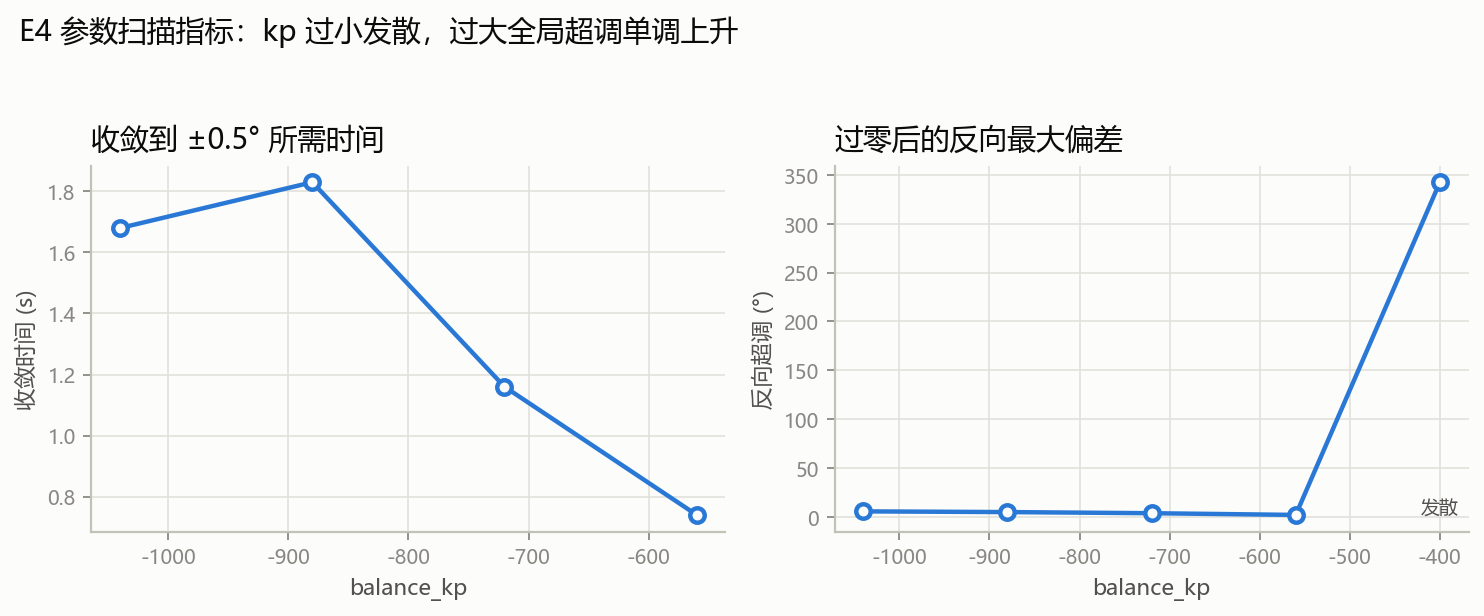
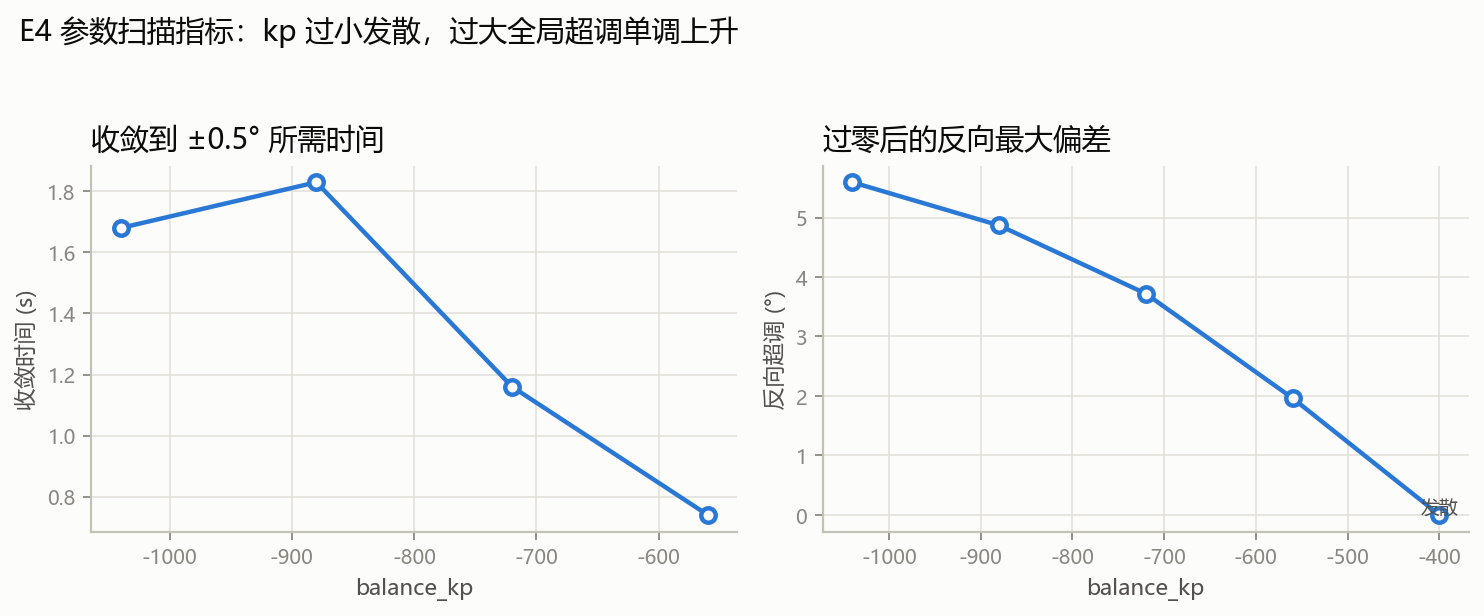
docs: 重出 E4 图（-400 工况现被倾角保护切断）+ 面试QA 补 E6/E7
- 引入锁存式倾角保护后，E4 中 kp=-400 发散到倒地即被切断 PWM，
  轨迹与指标变化，docs/sil 两张 E4 图按当前数据重出
- 面试QA Q1 补齐 7 组实验与 CTest 7/7 硬验收表述

diff --git a/docs/面试QA.md b/docs/面试QA.md
@@ -15,7 +15,8 @@
    编码器量化、MPU 噪声与零偏随机游走），**跑的是要烧进芯片的同一份 App+Service
    源码**，只换 Port 实现。E1 初始倾角 10° 恢复 1.16s 进 ±0.5°；E2 冲击恢复
    1.22s；E3 台架卡尔曼 RMS 0.091° 显著优于互补 1.88°、纯积分 30°；E4/E5 给出
-   参数与周期抖动的量化趋势。
+   参数与周期抖动的量化趋势；E6/E7 验证倾角锁存保护与欠压降功率。
+   七组实验中 E1/E2/E6/E7 作为硬验收进了 CTest（7/7）。
 3. **边界**：模型参数是按公开规格估算并做过标定的（约束 = 课程默认增益可稳），
    摩擦、机械安装角、真实噪声谱与实车有差异，所以结论只讲**趋势与相对比较**，
    不声称绝对精度。若后续拿到板子，第一优先是补驱动级实测。
